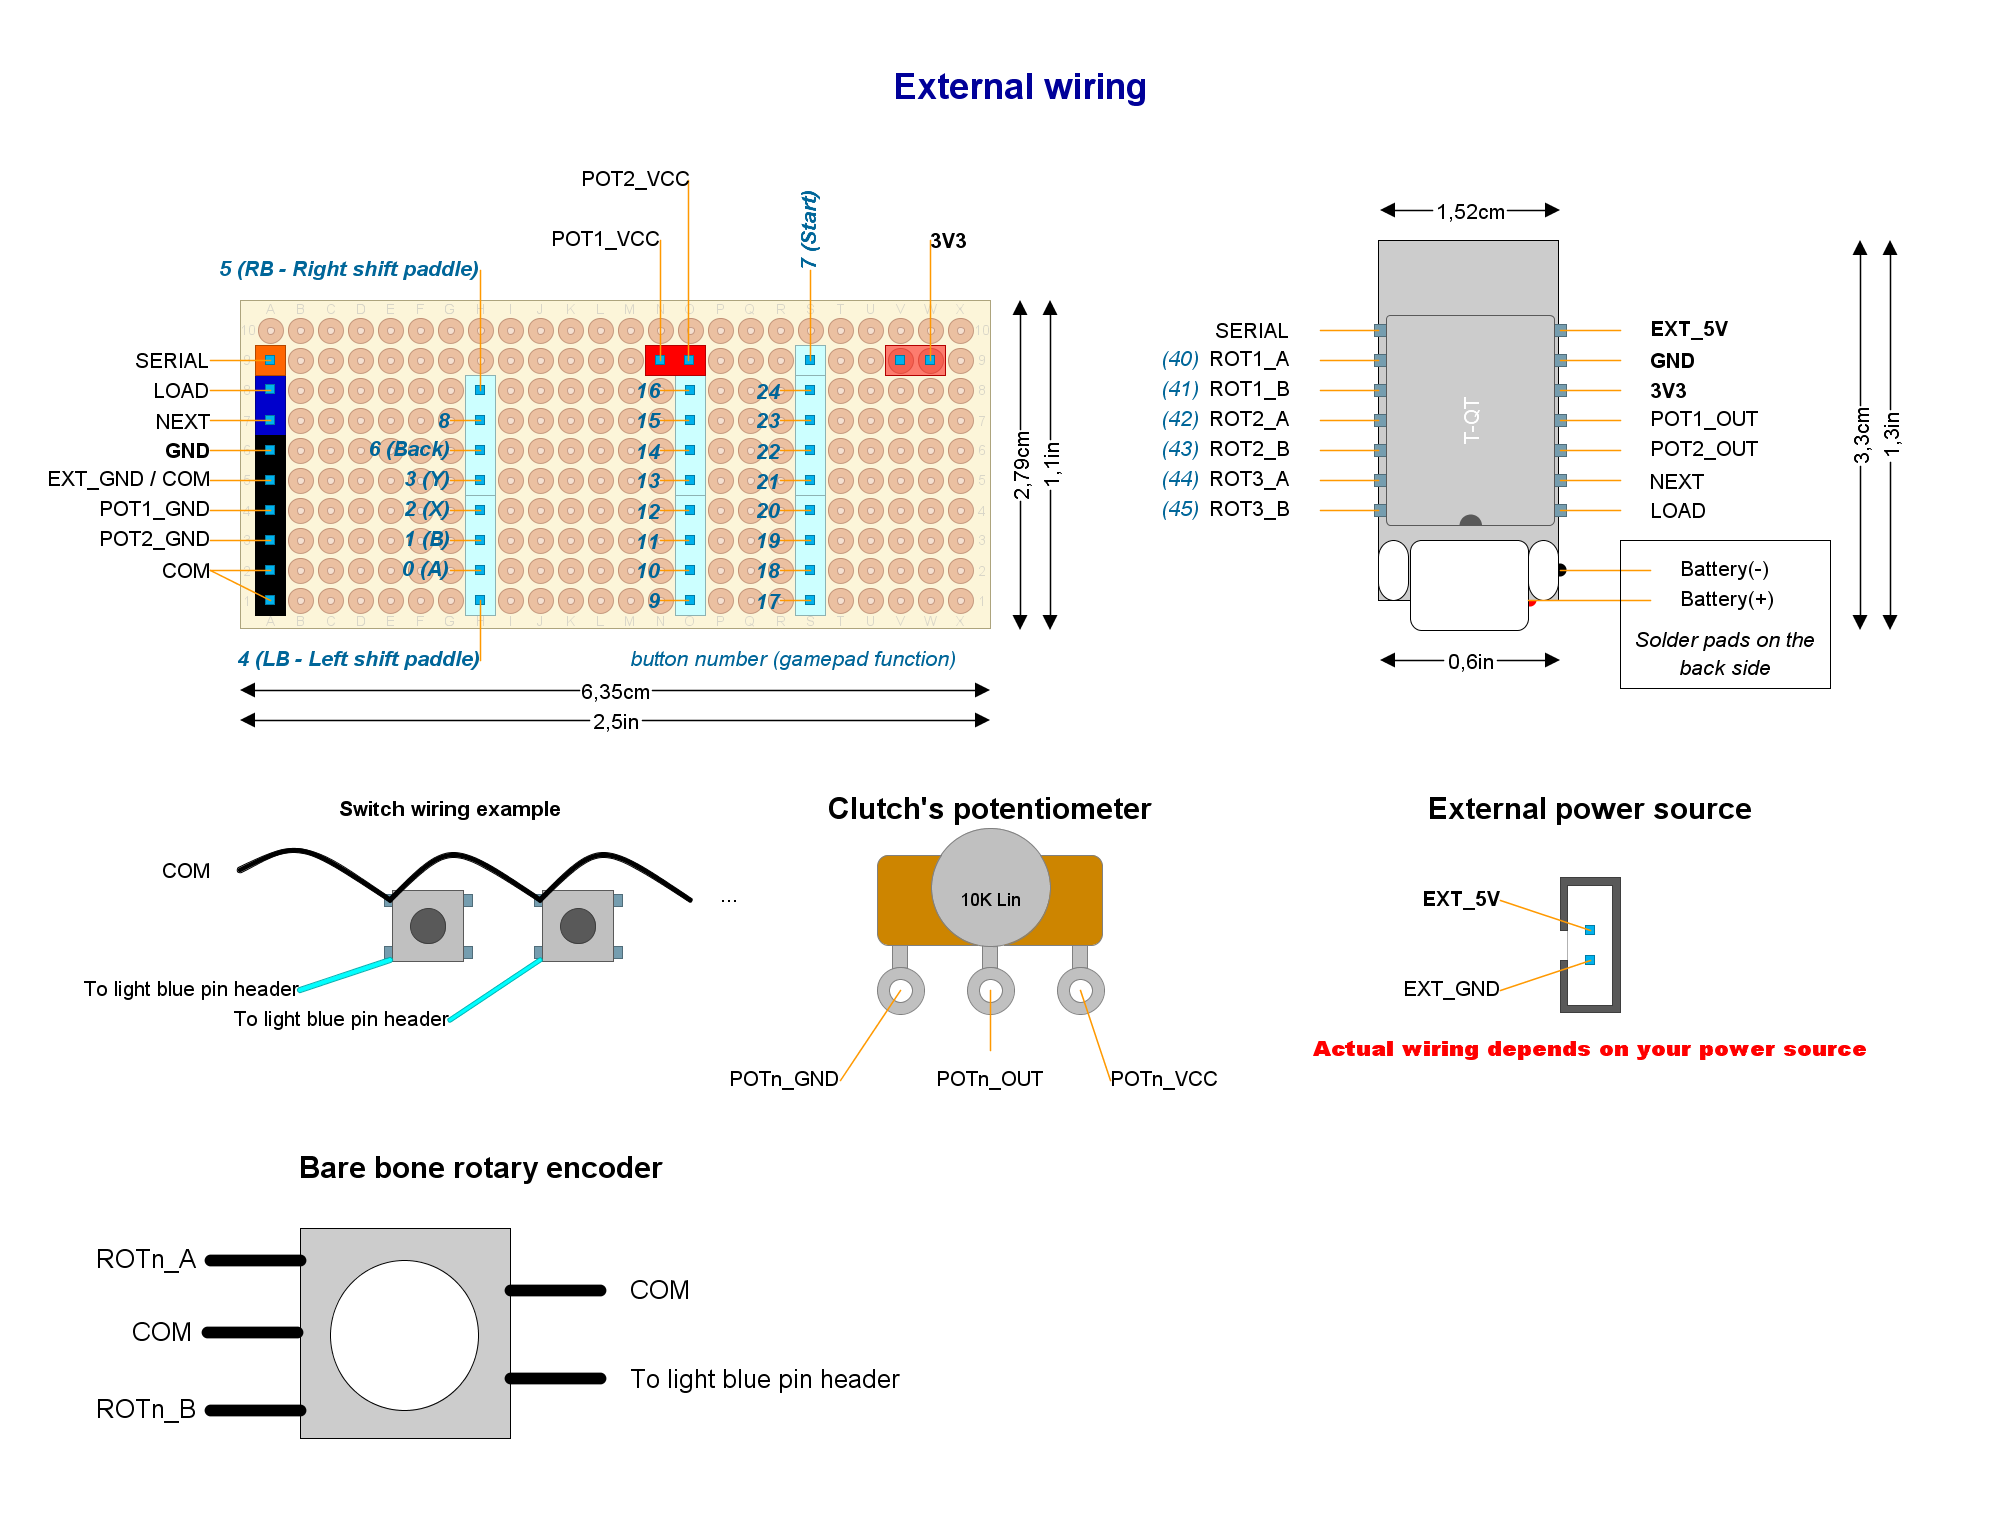
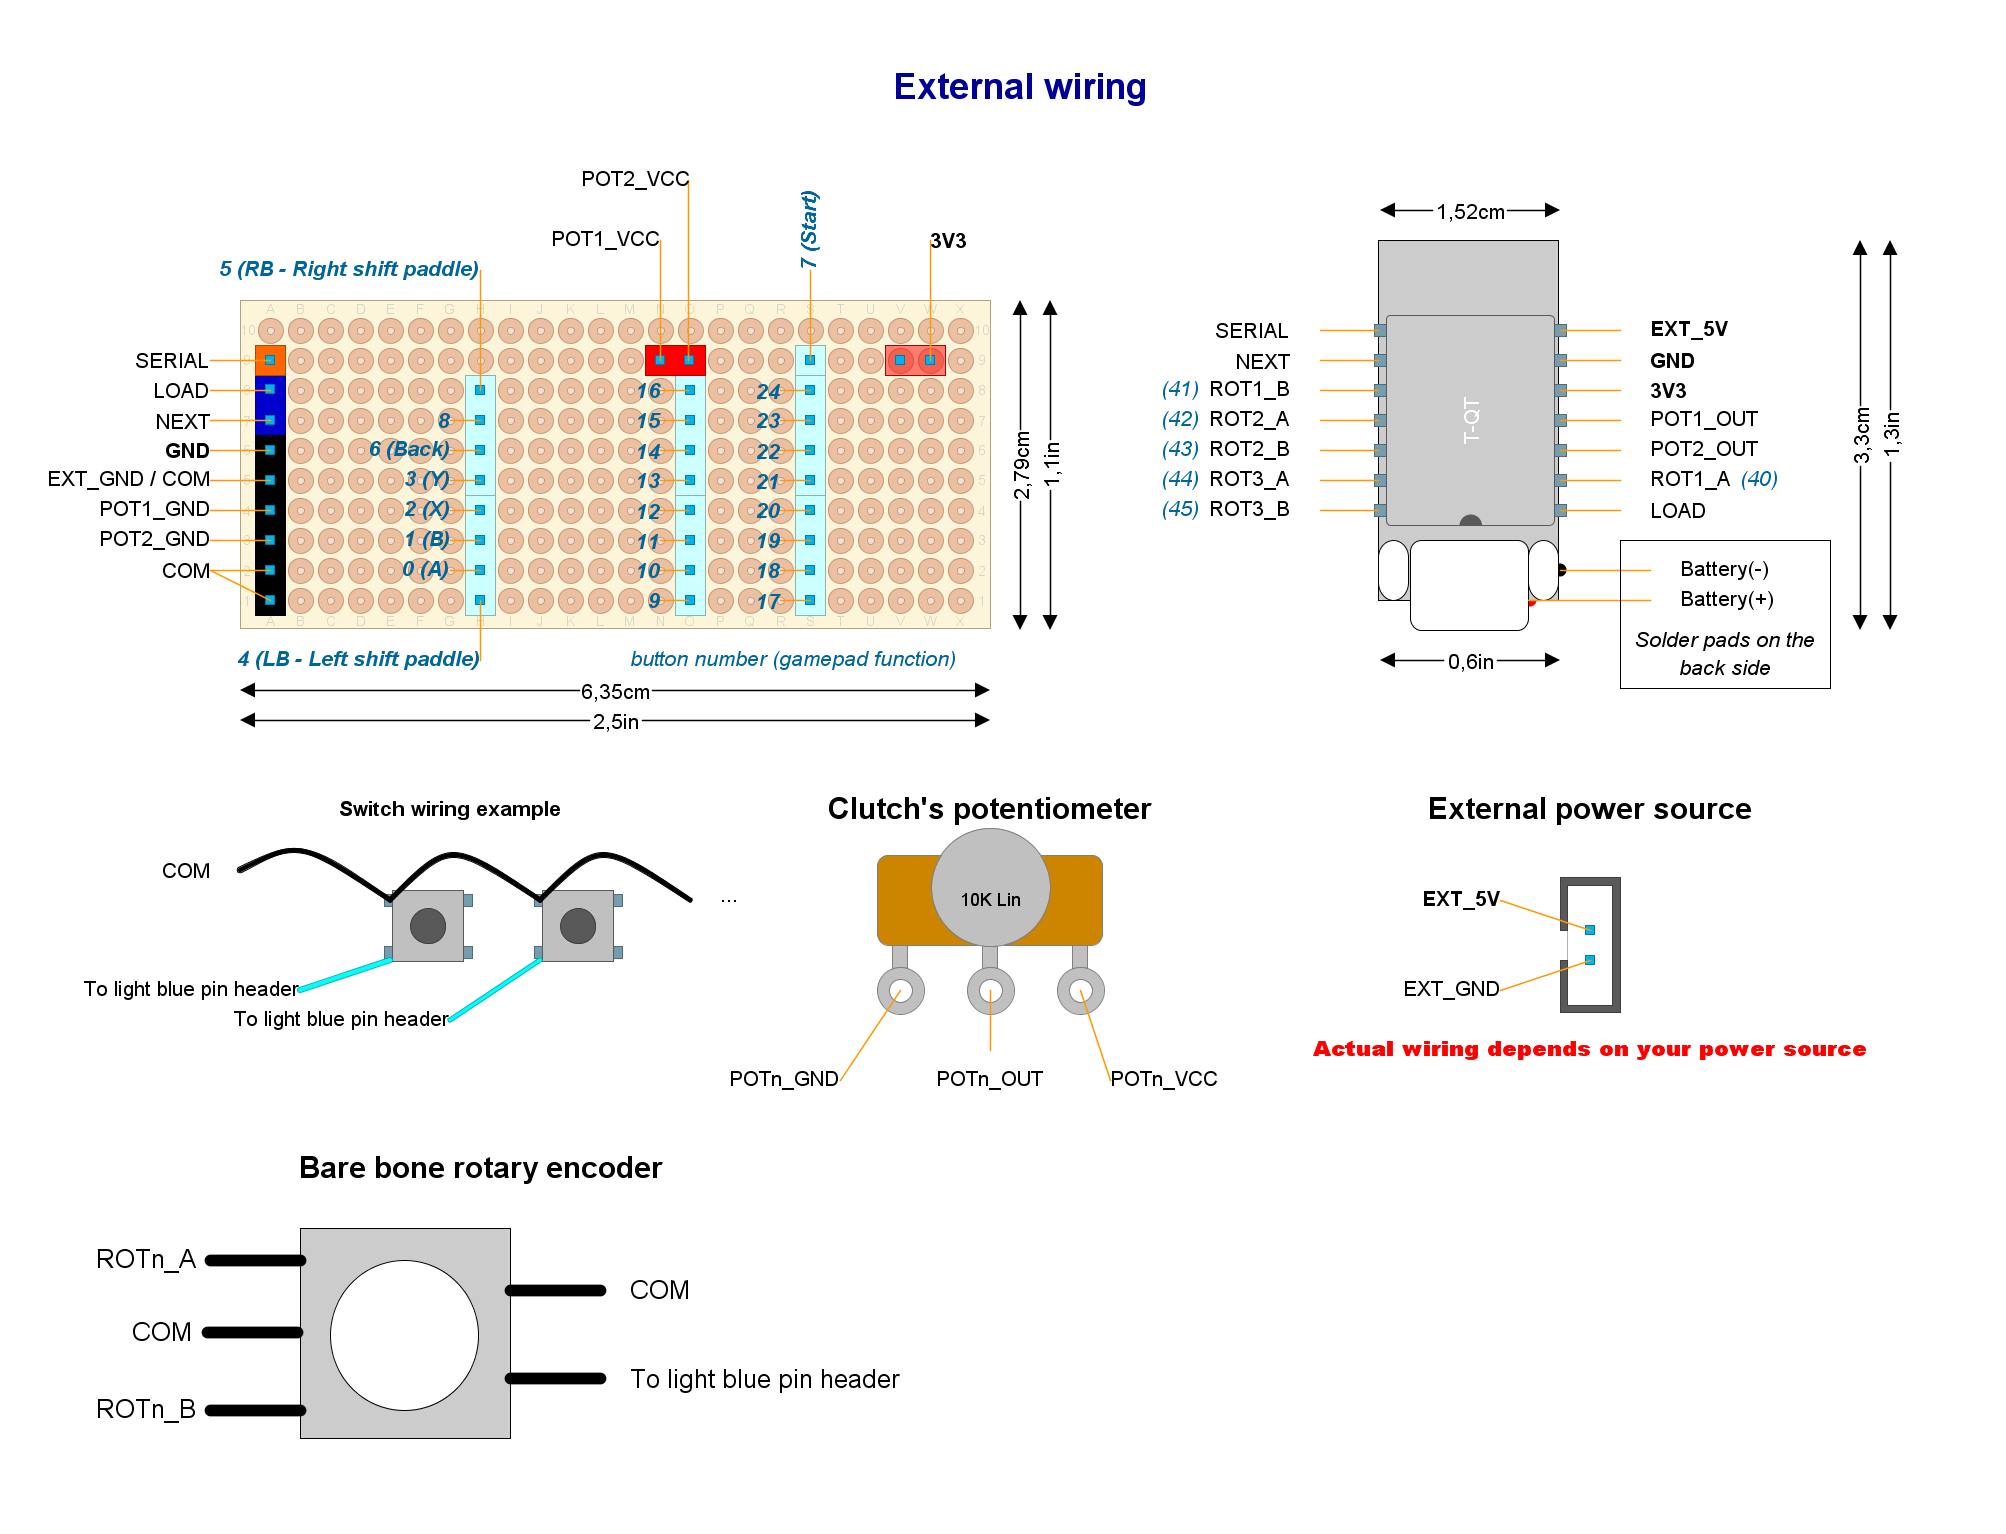
Bug fixes on "ready-to-deploy" designs (ESP32S3)

diff --git a/doc/hardware/setups/setup5/Setup5_en.md b/doc/hardware/setups/setup5/Setup5_en.md
@@ -69,7 +69,7 @@ Other notes:
 | **GPIO** | **Input** | **Output** |       **Usage**        | **Notes**                  |
 | -------- | --------- | ---------- | :--------------------: | -------------------------- |
 | **34**   | OK        | OK         |  Multiplexer input 2   |                            |
-| **33**   | OK        | OK         |         ROT1_A         |                            |
+| **33**   | OK        | OK         |  Multiplexer input 1   |                            |
 | **39**   | OK        | OK         |         ROT1_B         |                            |
 | **38**   | OK        | OK         |         ROT2_A         | outputs PWM signal at boot |
 | **37**   | OK        | OK         |         ROT2_B         | outputs PWM signal at boot |
@@ -78,7 +78,7 @@ Other notes:
 | **48**   | OK        | OK         | Multiplexer selector 1 |                            |
 | **18**   | OK        | OK         | Multiplexer selector 2 |                            |
 | **17**   | OK        | OK         | Multiplexer selector 3 | outputs PWM signal at boot |
-| **16**   | OK        | OK         |  Multiplexer input 1   |                            |
+| **16**   | OK        | OK         |         ROT1_A         |                            |
 
 ## Circuit layout
 

diff --git a/doc/hardware/setups/setup7/Setup7_en.md b/doc/hardware/setups/setup7/Setup7_en.md
@@ -69,14 +69,14 @@ Other notes:
 | **GPIO** | **Input** | **Output** | **Usage** | **Notes**                  |
 | -------- | --------- | ---------- | :-------: | -------------------------- |
 | **34**   | OK        | OK         |  SERIAL   |                            |
-| **33**   | OK        | OK         |  ROT1_A   |                            |
+| **33**   | OK        | OK         |   NEXT    |                            |
 | **39**   | OK        | OK         |  ROT1_B   |                            |
 | **38**   | OK        | OK         |  ROT2_A   | outputs PWM signal at boot |
 | **37**   | OK        | OK         |  ROT2_B   | outputs PWM signal at boot |
 | **36**   | OK        | OK         |  ROT3_A   |                            |
 | **35**   | OK        | OK         |  ROT3_B   |                            |
 | **48**   | OK        | OK         |   LOAD    |                            |
-| **18**   | OK        | OK         |   NEXT    |                            |
+| **18**   | OK        | OK         |  ROT1_A   |                            |
 | **17**   | OK        | OK         | POT2_OUT  | outputs PWM signal at boot |
 | **16**   | OK        | OK         | POT1_OUT  |                            |
 

diff --git a/README.MD b/README.MD
@@ -73,7 +73,7 @@ This project provides open hardware and software for a sim-racing wheel or butto
 
 - ✅ **Fully operational**.
 
-- 👷♀State-of-the-art software-engineering (no amateur code).
+- 👷♀State-of-the-art software engineering (no amateur code).
 
 There is a [companion app](https://github.com/afpineda/SimWheelESP32Config) for user preferences,
 not mandatory but needed for some features.

diff --git a/doc/changelog.md b/doc/changelog.md
@@ -1,5 +1,12 @@
 # Change log
 
+## 7.0.2
+
+- Important bug fixes affecting some "ready-to-deploy"
+  designs based on ESP32S3 boards.
+- Some "ready-to-deploy" hardware designs have changed:
+  "Setup5" and "Setup7".
+
 ## 7.0.1
 
 - Important bug fixes affecting some "ready-to-deploy"
